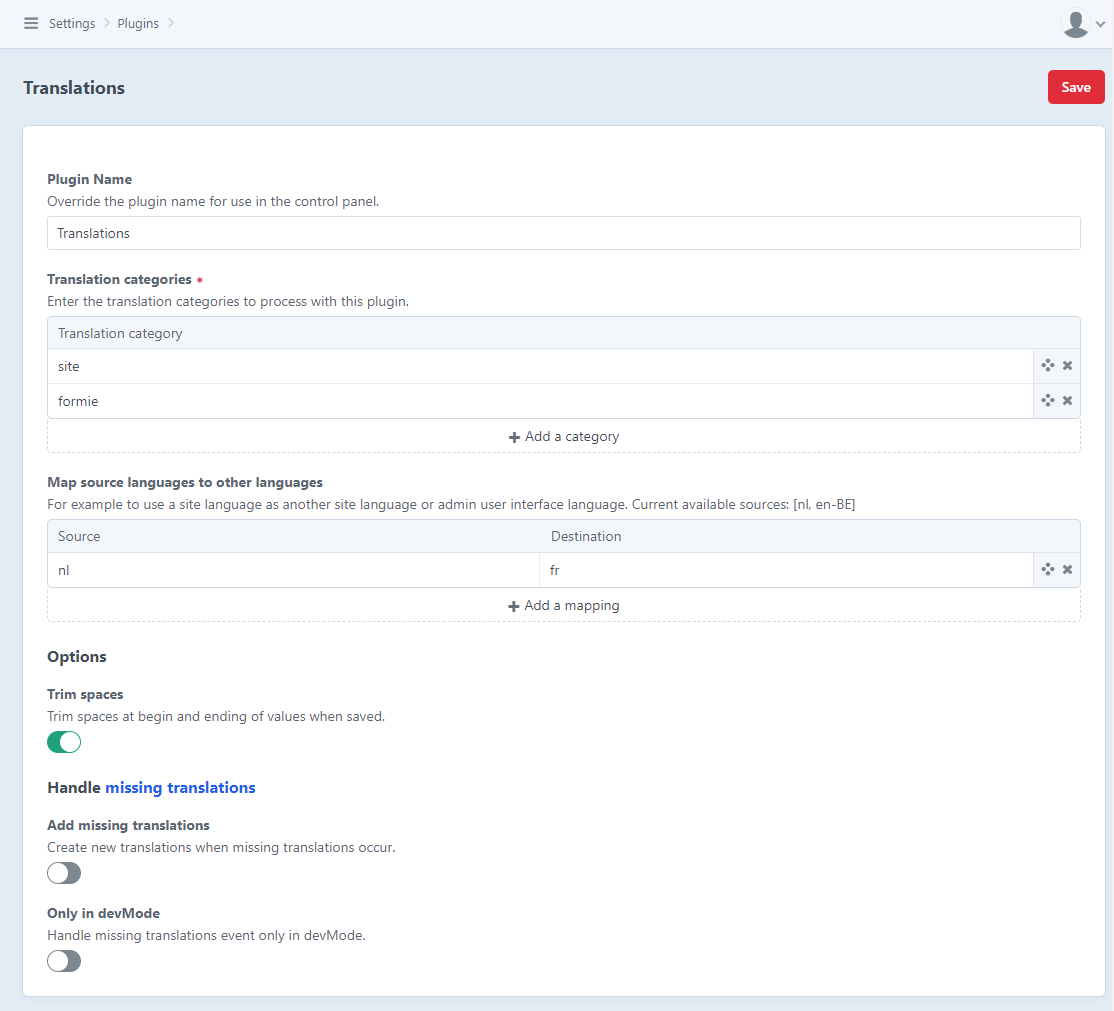
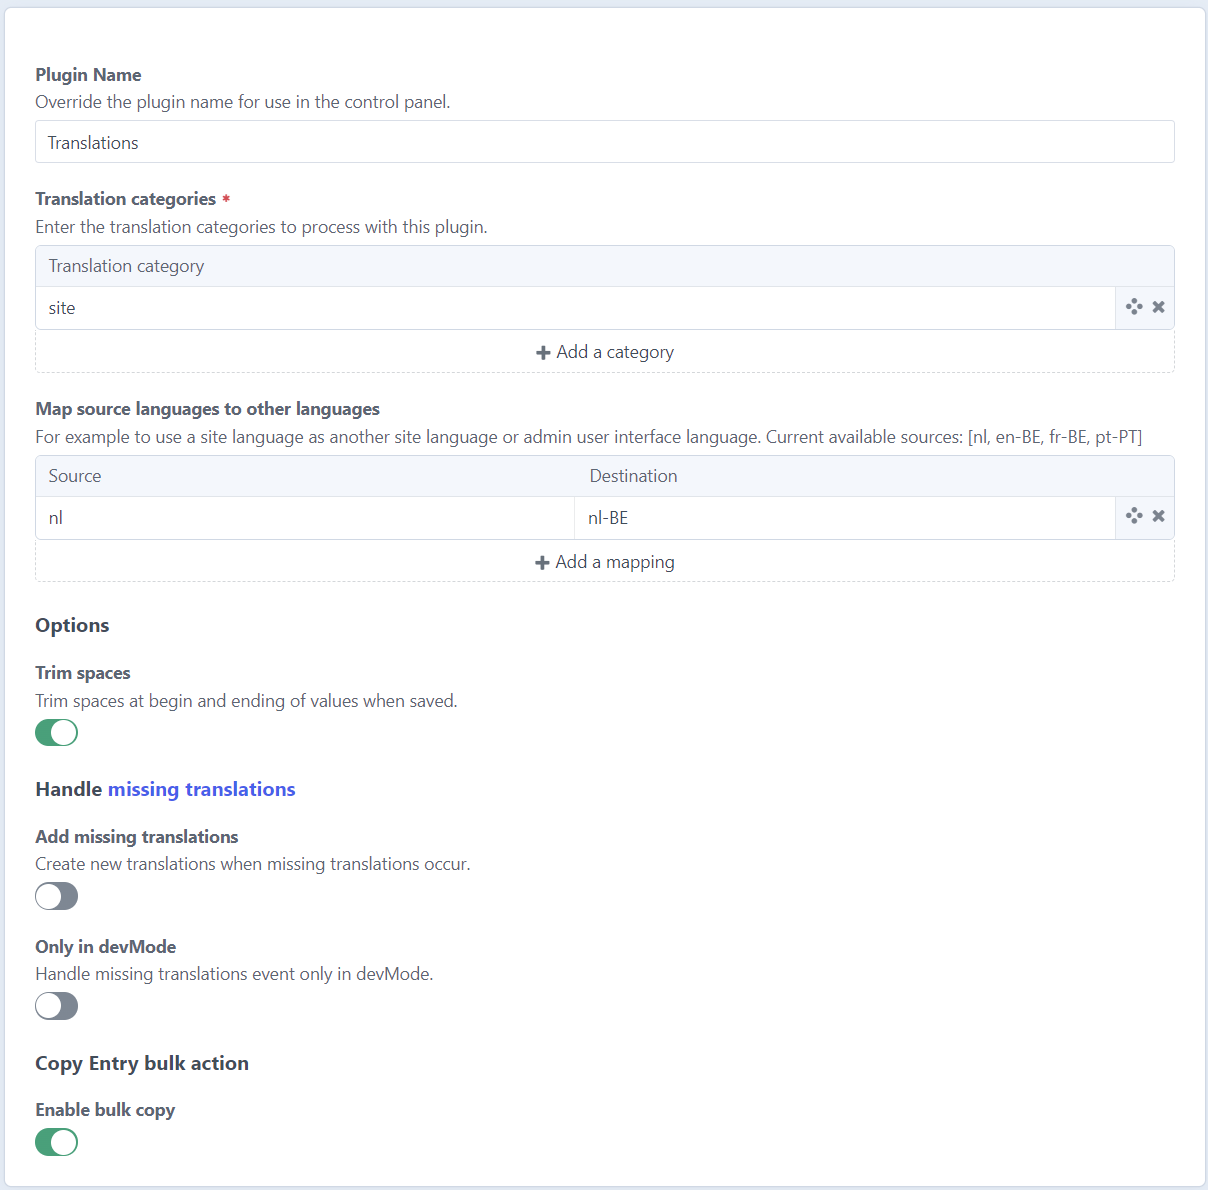
update docs

Changed region(s): [[0.0, 0.0, 1.0, 1.0], [0.4578, 0.5826, 0.5494, 0.6133], [0.4578, 0.276, 0.5494, 0.3066]]

diff --git a/src/config.php b/src/config.php
@@ -17,7 +17,7 @@
 return [
 //    'pluginName' => 'Translations',
 //    'categories' => [['key' => 'site']],
-//    'mapLocales' => [],
+//    'mapLocales' => [['source'=>'nl', 'destination'=>'nl-BE']],   
 //    'handleMissingTranslationEvent' => false,
 //    'handleMissingTranslationEventOnlyInDevMode' => true,
 //    'trimValuesOnSave' => true,

diff --git a/README.md b/README.md
@@ -49,6 +49,10 @@ Trim spaces at begin or ending of values when they are saved.
 When a new unknown translation is used while rendering templates, an event is triggered.
 Handling this event is optional. A new empty translation row will be added for the missing message.
 
+### Copy Entry bulk action
+
+Enable [this feature](#copy-entries-in-bulk-action)
+
 ## Importing translations
 
 ![Screenshot](resources/img/screenshot_import.png)
@@ -84,7 +88,13 @@ message rows in the database:
 ## Exporting
 
 1. Export all the rows using the export tab
-2. Or select the rows in the table to export
+2. Or, in the overview table, select the rows and languages to export
+   - as csv file
+   - as a content migration file
+
+### Migration file export
+
+The advantage of exporting to a migration file is that your content can be pushed to git and then the server when deploying. The migration file adds the rows to your database when `craft up` or `craft migrate/all` is executed.
 
 ## Manage translations
 
@@ -94,8 +104,6 @@ message rows in the database:
 
 To enable this functionality both enable this in the settings 
 and set the permission for the user ("Copy content bulk action").
-
-You can also enable this in `config/database-translations.php`
 
 You can now select Entries in the index table, and select the bulk action.
 The content will be copied over to the other site in a queue job.
